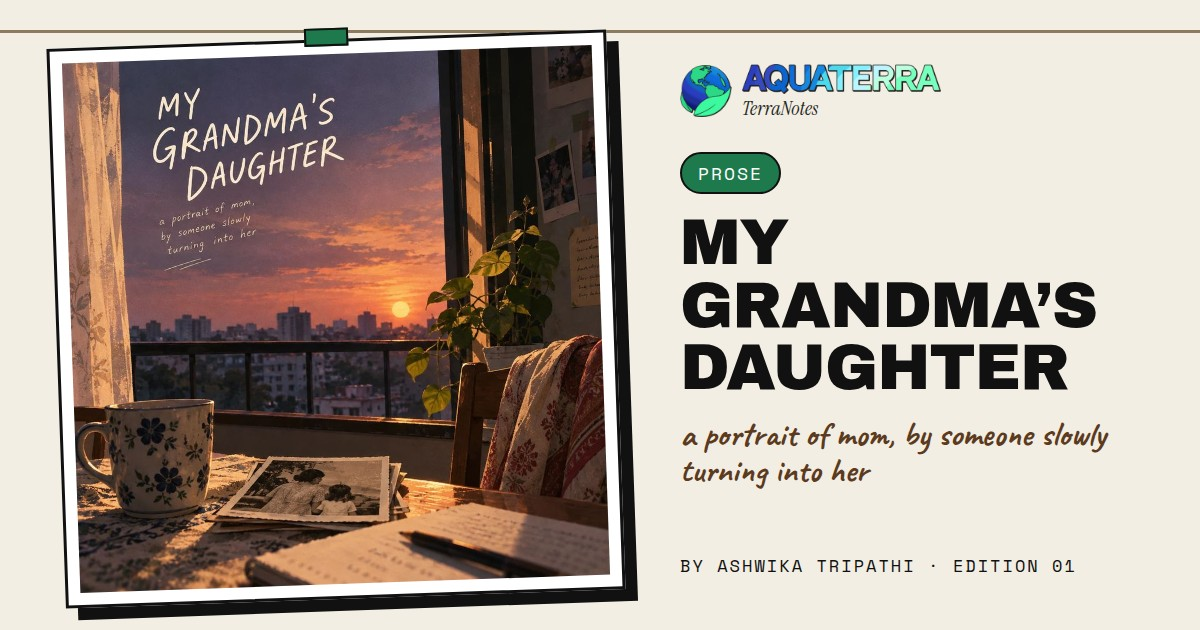
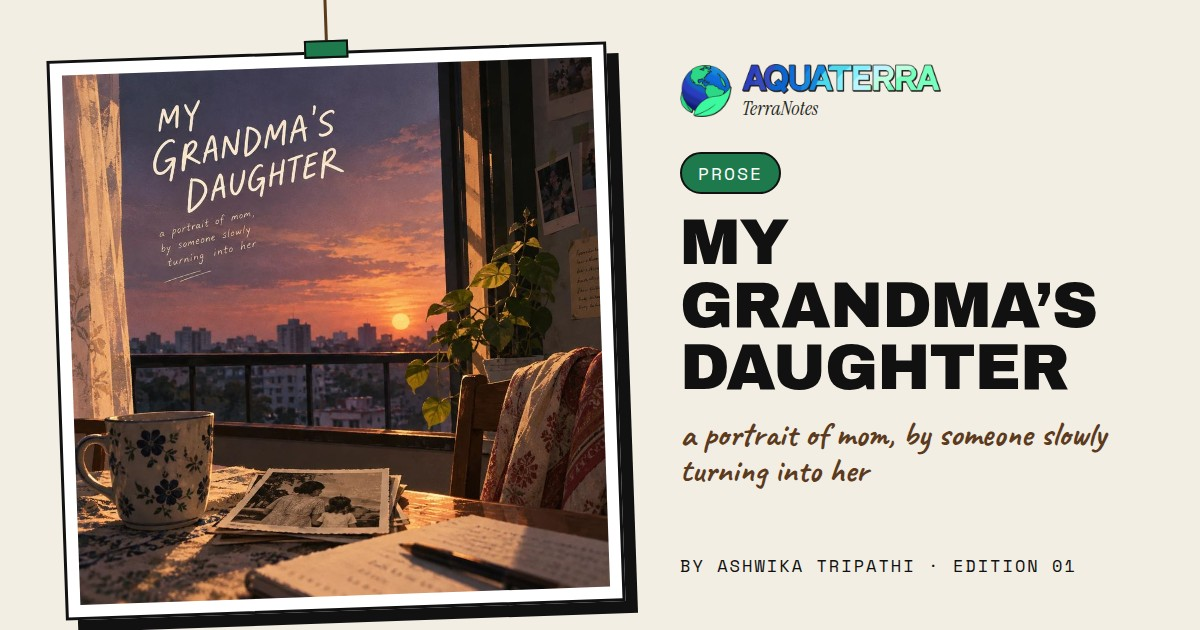
Labs cover + hanging link previews, word pronunciations, drop the Friday note
- AQ Labs article gets its cover (and link preview).
- Link previews: the cover hangs from a string with its clip, not a wire.
- Words game: how to say each word, under it on the cloud (data/words.js say).
- Team section: the 'we meet every Friday' join-us note is gone.

Claude-Session: https://claude.ai/code/session_01CgW7HxbCpt5fYjBJ3ADamc

Changed region(s): [[0.0, 0.0, 1.0, 1.0]]

diff --git a/src/shared/TeamSection.jsx b/src/shared/TeamSection.jsx
@@ -12,7 +12,7 @@ import { faceSpots, profileTop, teamLinks, useFaceColors } from '../lib/teamLayo
 import { FONT } from '../styles/fonts.js';
 
 // "Meet the team" (id="members"), both layouts: every member's face (data/team.js) floating in a honeycomb, dotted
-// lines joining each team, a legend that highlights one team, the "we meet every Friday" note, and a profile card
+// lines joining each team, a legend that highlights one team, and a profile card
 // that opens level with a tapped face (bio, what their team made, their articles, Instagram, optional badge / crown).
 // PHONE and WEB hold each layout's positions and sizes; the section's height grows with the number of members.
 const PHONE = {
@@ -25,7 +25,6 @@ const PHONE = {
   note: { left: "22px", top: "270px", width: "250px", fontSize: "21px" },
   legend: { left: "16px", top: "340px", width: "142px", gap: "4px" }, chip: { minHeight: "32px", padding: "0 10px 0 6px", gap: "8px", fontSize: "9.5px", letterSpacing: "1.2px" }, dot: "12px",
   face: { half: 58, gap: "8px", shadow: "6px 5px 0", icon: 20, font: "11px", name: "12px", role: "8.5px", roleSpacing: "1px", roleGap: "3px", pad: "2px 6px", bump: "transform .12s ease" },
-  friday: { box: { left: "22px", width: "330px", boxShadow: "8px 8px 0 #111111", padding: "18px 18px 16px" }, psst: { right: "-12px", top: "-16px", fontSize: "20px", padding: "2px 12px" }, head: "25px", line: "23px", chairs: "8px", chair: {}, emptyGap: "6px", yours: { fontSize: "19px", paddingBottom: "20px" } },
   dim: "rgba(17,17,17,.55)",
   card: { width: 334, shadow: "8px 8px 0", padding: "18px", clip: [34, 10, "-7px"], close: { right: "10px", top: "10px" }, photo: "96px", name: "30px", role: "20px", bio: "14px", credit: "13px" },
 };
@@ -39,29 +38,19 @@ const WEB = {
   note: { left: "82px", top: "360px", width: "400px", fontSize: "27px" },
   legend: { left: "78px", top: "440px", width: "220px", gap: "6px" }, chip: { minHeight: "40px", padding: "0 14px 0 8px", gap: "10px", fontSize: "11px", letterSpacing: "1.4px" }, dot: "14px",
   face: { half: 66, gap: "10px", shadow: "8px 6px 0", icon: 22, font: "13px", name: "15px", role: "10px", roleSpacing: "1.2px", roleGap: "4px", pad: "2px 8px", bump: "transform 180ms cubic-bezier(0.32, 0.72, 0, 1)" },
-  friday: { box: { left: "90px", top: "660px", width: "400px", boxShadow: "9px 9px 0 #111111", padding: "22px 24px 18px" }, psst: { right: "-14px", top: "-18px", fontSize: "22px", padding: "2px 14px" }, head: "30px", line: "26px", chairs: "10px", chair: { width: 40, height: 48 }, emptyGap: "8px", yours: { fontSize: "22px", paddingBottom: "22px" } },
   dim: "rgba(17,17,17,.35)",
   card: { width: 360, shadow: "9px 9px 0", padding: "22px", clip: [36, 11, "-8px"], close: { right: "12px", top: "12px" }, photo: "108px", name: "34px", role: "23px", bio: "15px", credit: "14px" },
 };
 const layoutOf = (L) => {
   const spots = faceSpots(L.faces), bottom = Math.max(...spots.map((s) => s.cy + s.size / 2));
-  const height = L === PHONE ? bottom + 56 + 260 : Math.max(900, bottom + 110);
-  return { ...L, spots, links: teamLinks(spots, L.bend), fridayTop: bottom + 56, height };
+  const height = L === PHONE ? bottom + 64 : Math.max(900, bottom + 110);
+  return { ...L, spots, links: teamLinks(spots, L.bend), height };
 };
 const LAYOUT = { phone: layoutOf(PHONE), web: layoutOf(WEB) };
 export const TEAM_HEIGHT = { phone: LAYOUT.phone.height, web: LAYOUT.web.height }; // the home pages grow with it
 
 const NUMBER_WORDS = ['zero', 'one', 'two', 'three', 'four', 'five', 'six', 'seven', 'eight', 'nine', 'ten', 'eleven', 'twelve', 'thirteen', 'fourteen', 'fifteen', 'sixteen', 'seventeen', 'eighteen', 'nineteen', 'twenty'];
 const photoFill = { width: "100%", height: "100%", objectFit: "cover", display: "block" };
-
-// A chair for the Friday note (empty = dashed: the reader's seat)
-const Chair = ({ empty, width = 34, height = 40 }) => (
-  <svg width={width} height={height} viewBox="0 0 34 40" aria-hidden="true">
-    <g fill="none" stroke="#111111" strokeWidth="2.4" strokeLinecap="square" strokeDasharray={empty ? "3 3" : undefined}>
-      <path d="M7 2 V22" /><rect x="7" y="18" width="21" height="5" fill={empty ? "none" : "#111111"} /><path d="M9 23 L6 38" /><path d="M26 23 L29 38" /><path d="M7 8 H13" />
-    </g>
-  </svg>
-);
 
 // crown: true in data/team.js → a crown on their photo in the profile card
 const Crown = () => (
@@ -108,7 +97,7 @@ export default function TeamSection({ web }) {
   const fallback = spot && (web
     ? { left: spot.cx < 1000 ? Math.round(spot.cx + spot.size / 2 + 28) : Math.round(spot.cx - spot.size / 2 - 28 - L.card.width), top: Math.max(20, Math.min(Math.round(spot.cy - 150), H - 530)) }
     : { left: 28, top: Math.max(120, Math.min(spot.cy - spot.size / 2 - 60, H - 540)) });
-  const at = cardAt || fallback, C = L.card, F = L.face, R = L.friday;
+  const at = cardAt || fallback, C = L.card, F = L.face;
   const close = () => setOpen(null);
   const btn = web ? 'btn' : undefined;
 
@@ -151,19 +140,6 @@ export default function TeamSection({ web }) {
           </div>
         );
       })}
-      {/* Friday note: four chairs taken, a dashed fifth for the reader */}
-      <div style={{ position: "absolute", top: `${L.fridayTop}px`, boxSizing: "border-box", background: "#F7C21A", border: "2px solid #111111", transform: "rotate(-2deg)", ...R.box }}>
-        <div style={{ position: "absolute", background: "#111111", color: "#F7C21A", fontFamily: FONT.hand, transform: "rotate(6deg)", ...R.psst }}>psst.</div>
-        <div style={{ fontFamily: FONT.head, fontSize: R.head, lineHeight: "0.95", textTransform: "uppercase", color: "#111111" }}>We meet<br />every Friday.</div>
-        <div style={{ marginTop: "8px", fontFamily: FONT.hand, fontSize: R.line, lineHeight: "1.1", color: "#111111" }}>there's always room for one more.</div>
-        <div style={{ marginTop: "12px", display: "flex", alignItems: "flex-end", gap: R.chairs }}>
-          <Chair {...R.chair} /><Chair {...R.chair} /><Chair {...R.chair} /><Chair {...R.chair} />
-          <div style={{ marginLeft: R.emptyGap, display: "flex", alignItems: "flex-end", gap: "4px" }}>
-            <Chair empty {...R.chair} />
-            <span style={{ fontFamily: FONT.hand, lineHeight: "1", transform: "rotate(-8deg)", ...R.yours }}>yours?</span>
-          </div>
-        </div>
-      </div>
       {/* profile card over a dimmed section */}
       {sel && (
         <>

diff --git a/src/data/words.js b/src/data/words.js
@@ -1,4 +1,5 @@
 // "Words we should bring back": each game draws 5 of these at random.
+//   say:     how to say it, spelled out (capitals = the stressed part), shown under the word
 //   options: the three meanings shown
 //   answer:  which option is right (0 = first, 1 = second, 2 = third)
 //   meaning: the real definition, shown after a pick (keep it under ~115 characters)
@@ -6,6 +7,7 @@
 export const WORDS = [
   {
     word: 'Apricity',
+    say: 'uh-PRISS-ih-tee',
     options: ['the warmth of the sun in winter', 'a sour aftertaste from citrus', 'a fear of open water'],
     answer: 0,
     meaning: 'Apricity (n.): the warmth of the sun in winter. Recorded in a 1623 dictionary, then almost never used again.',
@@ -13,6 +15,7 @@ export const WORDS = [
   },
   {
     word: 'Gloaming',
+    say: 'GLOH-ming',
     options: ['a soft glow on wet stone', 'twilight; the fall of dusk', 'a slow-moving river fog'],
     answer: 1,
     meaning: 'Gloaming (n.): twilight, the fall of dusk. Still alive in Scottish speech and old songs.',
@@ -20,6 +23,7 @@ export const WORDS = [
   },
   {
     word: 'Respair',
+    say: 'rih-SPAIR',
     options: ['to repair something twice', 'a spare pair of shoes', 'fresh hope after despair'],
     answer: 2,
     meaning: 'Respair (n.): fresh hope; recovering from despair. Last seen in writing around the 1500s.',
@@ -27,6 +31,7 @@ export const WORDS = [
   },
   {
     word: 'Curglaff',
+    say: 'kur-GLAFF',
     options: ['a loud laugh at a funeral', 'a crooked garden fence', 'the shock of plunging into cold water'],
     answer: 2,
     meaning: 'Curglaff (n.): the shock you feel when you first plunge into cold water. An old Scots word.',
@@ -34,6 +39,7 @@ export const WORDS = [
   },
   {
     word: 'Snowbroth',
+    say: 'SNOH-broth',
     options: ['a winter soup of root vegetables', 'freshly melted snow', 'the crunch of boots on ice'],
     answer: 1,
     meaning: 'Snowbroth (n.): freshly melted snow. Shakespeare gives a cold-blooded man “snow-broth” for blood.',
@@ -41,6 +47,7 @@ export const WORDS = [
   },
   {
     word: 'Mizzle',
+    say: 'MIZ-ul',
     options: ['a very fine, misty rain', 'to chew with your mouth open', 'to doze off by the fire'],
     answer: 0,
     meaning: 'Mizzle (v.): to rain in very fine drops, somewhere between mist and drizzle. Still heard in the West Country.',
@@ -48,6 +55,7 @@ export const WORDS = [
   },
   {
     word: 'Welkin',
+    say: 'WEL-kin',
     options: ['a young hare', 'a hand-knitted shawl', 'the sky; the vault of heaven'],
     answer: 2,
     meaning: 'Welkin (n.): the sky, the vault of heaven. From Old English wolcen, “cloud”.',
@@ -55,6 +63,7 @@ export const WORDS = [
   },
   {
     word: 'Uhtceare',
+    say: 'OOHT-chair-uh',
     options: ['a wooden spoon for stirring ale', 'lying awake before dawn, worrying', 'the last boat home at night'],
     answer: 1,
     meaning: 'Uhtceare (n.): lying awake before dawn, full of worry. Old English: uht, the hour before daybreak, and care.',
@@ -62,6 +71,7 @@ export const WORDS = [
   },
   {
     word: 'Hurkle-durkle',
+    say: 'HUR-kul-DUR-kul',
     options: ['to stay in bed long after you should be up', 'a game of hopscotch', "a knot that won't come undone"],
     answer: 0,
     meaning: "Hurkle-durkle (v.): to lounge in bed long after it's time to get up. An old Scots word, overdue a comeback.",
@@ -69,6 +79,7 @@ export const WORDS = [
   },
   {
     word: 'Groak',
+    say: 'GROHK',
     options: ['the call of a heron', 'a lump of wet clay', "to watch someone eat, hoping they'll share"],
     answer: 2,
     meaning: "Groak (v.): to watch someone eat in silence, hoping they'll offer you some. Dogs never needed the word.",
@@ -76,6 +87,7 @@ export const WORDS = [
   },
   {
     word: 'Ultracrepidarian',
+    say: 'ul-truh-krep-ih-DAIR-ee-un',
     options: ['someone who comments on things they know nothing about', 'a very early riser', 'a collector of old shoes'],
     answer: 0,
     meaning: 'Ultracrepidarian (n.): someone who gives opinions beyond their knowledge. William Hazlitt used it in 1819.',
@@ -83,6 +95,7 @@ export const WORDS = [
   },
   {
     word: 'Brabble',
+    say: 'BRAB-ul',
     options: ['a pebble polished by the sea', 'to squabble noisily over nothing', 'a small boat for two'],
     answer: 1,
     meaning: 'Brabble (v.): to squabble noisily over trifles. Twelfth Night has a “private brabble” in it.',

diff --git a/src/shared/WordsGameSection.jsx b/src/shared/WordsGameSection.jsx
@@ -2,7 +2,7 @@ import { useRef } from 'react';
 import { fitWord, useWordsGame } from '../lib/useWordsGame.js';
 import { FONT } from '../styles/fonts.js';
 
-// "Words we should bring back." (id="words"), both layouts: an old word on a cloud, three meanings to pick from,
+// "Words we should bring back." (id="words"), both layouts: an old word on a cloud (with how to say it), three meanings to pick from,
 // the verdict + real definition, a "psst." hint after a while, and a score card after 5 words. Game state:
 // lib/useWordsGame.js; words: data/words.js. Phone: cloud on top, options under it; web: cloud left, options right.
 const CLOUD = 'M26 104 H176 A24 24 0 0 0 178 56 A36 36 0 0 0 110 30 A30 30 0 0 0 56 42 A30 30 0 0 0 26 104 Z';
@@ -10,7 +10,7 @@ const PHONE = {
   section: { top: "1830px", width: "390px", height: "650px" }, btn: 'press',
   title: { left: "20px", top: "18px", width: "260px", fontSize: "36px", lineHeight: "0.98" },
   score: { right: "20px", top: "26px", textAlign: "right", fontSize: "9px", letterSpacing: "1.6px", lineHeight: "1.6" },
-  cloud: { left: 10, top: 110, w: 370, h: 200, textTop: "78px", count: { fontSize: "9.5px", letterSpacing: "1.6px" }, word: [42, 300], gap: "4px", wordSpacing: "-0.5px", ask: "20px" },
+  cloud: { left: 10, top: 110, w: 370, h: 200, textTop: "78px", count: { fontSize: "9.5px", letterSpacing: "1.6px" }, word: [42, 300], gap: "4px", say: { fontSize: "11px", letterSpacing: "0.5px" }, sayGap: "2px", wordSpacing: "-0.5px", ask: "20px" },
   options: { left: "20px", top: "330px", width: "350px", gap: "12px" },
   option: { minHeight: "52px", padding: "10px 14px", gap: "12px", boxShadow: "4px 4px 0 #111111", fontSize: "15px", transition: "background-color 120ms ease, opacity 120ms ease" }, mark: ["26px", "12px"],
   hint: { left: "34px", top: "550px", width: "300px", boxShadow: "5px 5px 0 #F7C21A", padding: "12px 16px 10px 18px" }, psst: { left: "-12px", top: "-17px", fontSize: "20px", padding: "2px 12px" }, hintText: "21px",
@@ -23,7 +23,7 @@ const WEB = {
   section: { top: "1910px", width: "1440px", height: "600px" }, btn: 'btn',
   title: { left: "80px", top: "20px", width: "560px", fontSize: "68px", lineHeight: "0.95" },
   score: { left: "84px", top: "172px", fontSize: "12px", letterSpacing: "1.8px" },
-  cloud: { left: 50, top: 230, w: 620, h: 320, textTop: "128px", count: { fontSize: "11px", letterSpacing: "1.8px" }, word: [68, 500], gap: "6px", wordSpacing: "-1px", ask: "26px" },
+  cloud: { left: 50, top: 230, w: 620, h: 320, textTop: "128px", count: { fontSize: "11px", letterSpacing: "1.8px" }, word: [68, 500], gap: "6px", say: { fontSize: "14px", letterSpacing: "0.6px" }, sayGap: "4px", wordSpacing: "-1px", ask: "26px" },
   options: { left: "760px", top: "110px", width: "600px", gap: "18px" },
   option: { minHeight: "68px", padding: "12px 20px", gap: "16px", boxShadow: "5px 5px 0 #111111", fontSize: "19px", transition: "background-color 120ms ease, opacity 120ms ease, translate 160ms ease" }, mark: ["34px", "14px"],
   hint: { left: "790px", top: "414px", width: "440px", boxShadow: "6px 6px 0 #F7C21A", padding: "14px 20px 12px 22px" }, psst: { left: "-14px", top: "-19px", fontSize: "23px", padding: "2px 14px" }, hintText: "26px",
@@ -51,6 +51,7 @@ export default function WordsGameSection({ web }) {
         <div style={{ position: "absolute", left: "0", top: C.textTop, width: `${C.w}px`, textAlign: "center" }}>
           <div style={{ fontFamily: FONT.mono, color: "#4A4A45", ...C.count }}>{`WORD ${w.n} / ${w.total}`}</div>
           <div key={w.word} className="word-pop" style={{ marginTop: C.gap, fontFamily: FONT.head, fontSize: fitWord(w.word, ...C.word), lineHeight: "1", textTransform: "uppercase", letterSpacing: C.wordSpacing, color: "#111111" }}>{w.word}</div>
+          <div key={`${w.word}-say`} className="word-pop" style={{ marginTop: C.sayGap, fontFamily: FONT.mono, color: "#4A4A45", ...C.say }}>/ {w.say} /</div>
           <div style={{ marginTop: C.gap, fontFamily: FONT.hand, fontSize: C.ask, color: "#5B3A1E" }}>what do you think it means?</div>
         </div>
       </div>

diff --git a/src/data/articles.js b/src/data/articles.js
@@ -57,8 +57,8 @@ export const ALL_ARTICLES = [
     dek: "AquaTerra's student build program",
     tag: 'Under Aquaterra',
     featured: true,
-    cover: '',
-    alt: 'AQ Labs',
+    cover: '/editions/sep26/articles/labs/cover.jpg',
+    alt: 'AQ Labs: "summer will never be boring again", over a collage of the teams at work',
     author: null, // from Aquaterra itself: no byline
     edition: 1,
     date: 'Sep 2026',

diff --git a/src/lib/useWordsGame.js b/src/lib/useWordsGame.js
@@ -36,6 +36,7 @@ export function useWordsGame(section) {
     n: pad2(s.q + 1),
     score: pad2(s.score),
     word: round.word,
+    say: round.say,
     playing: !s.done,
     done: s.done,
     locked: shown,
